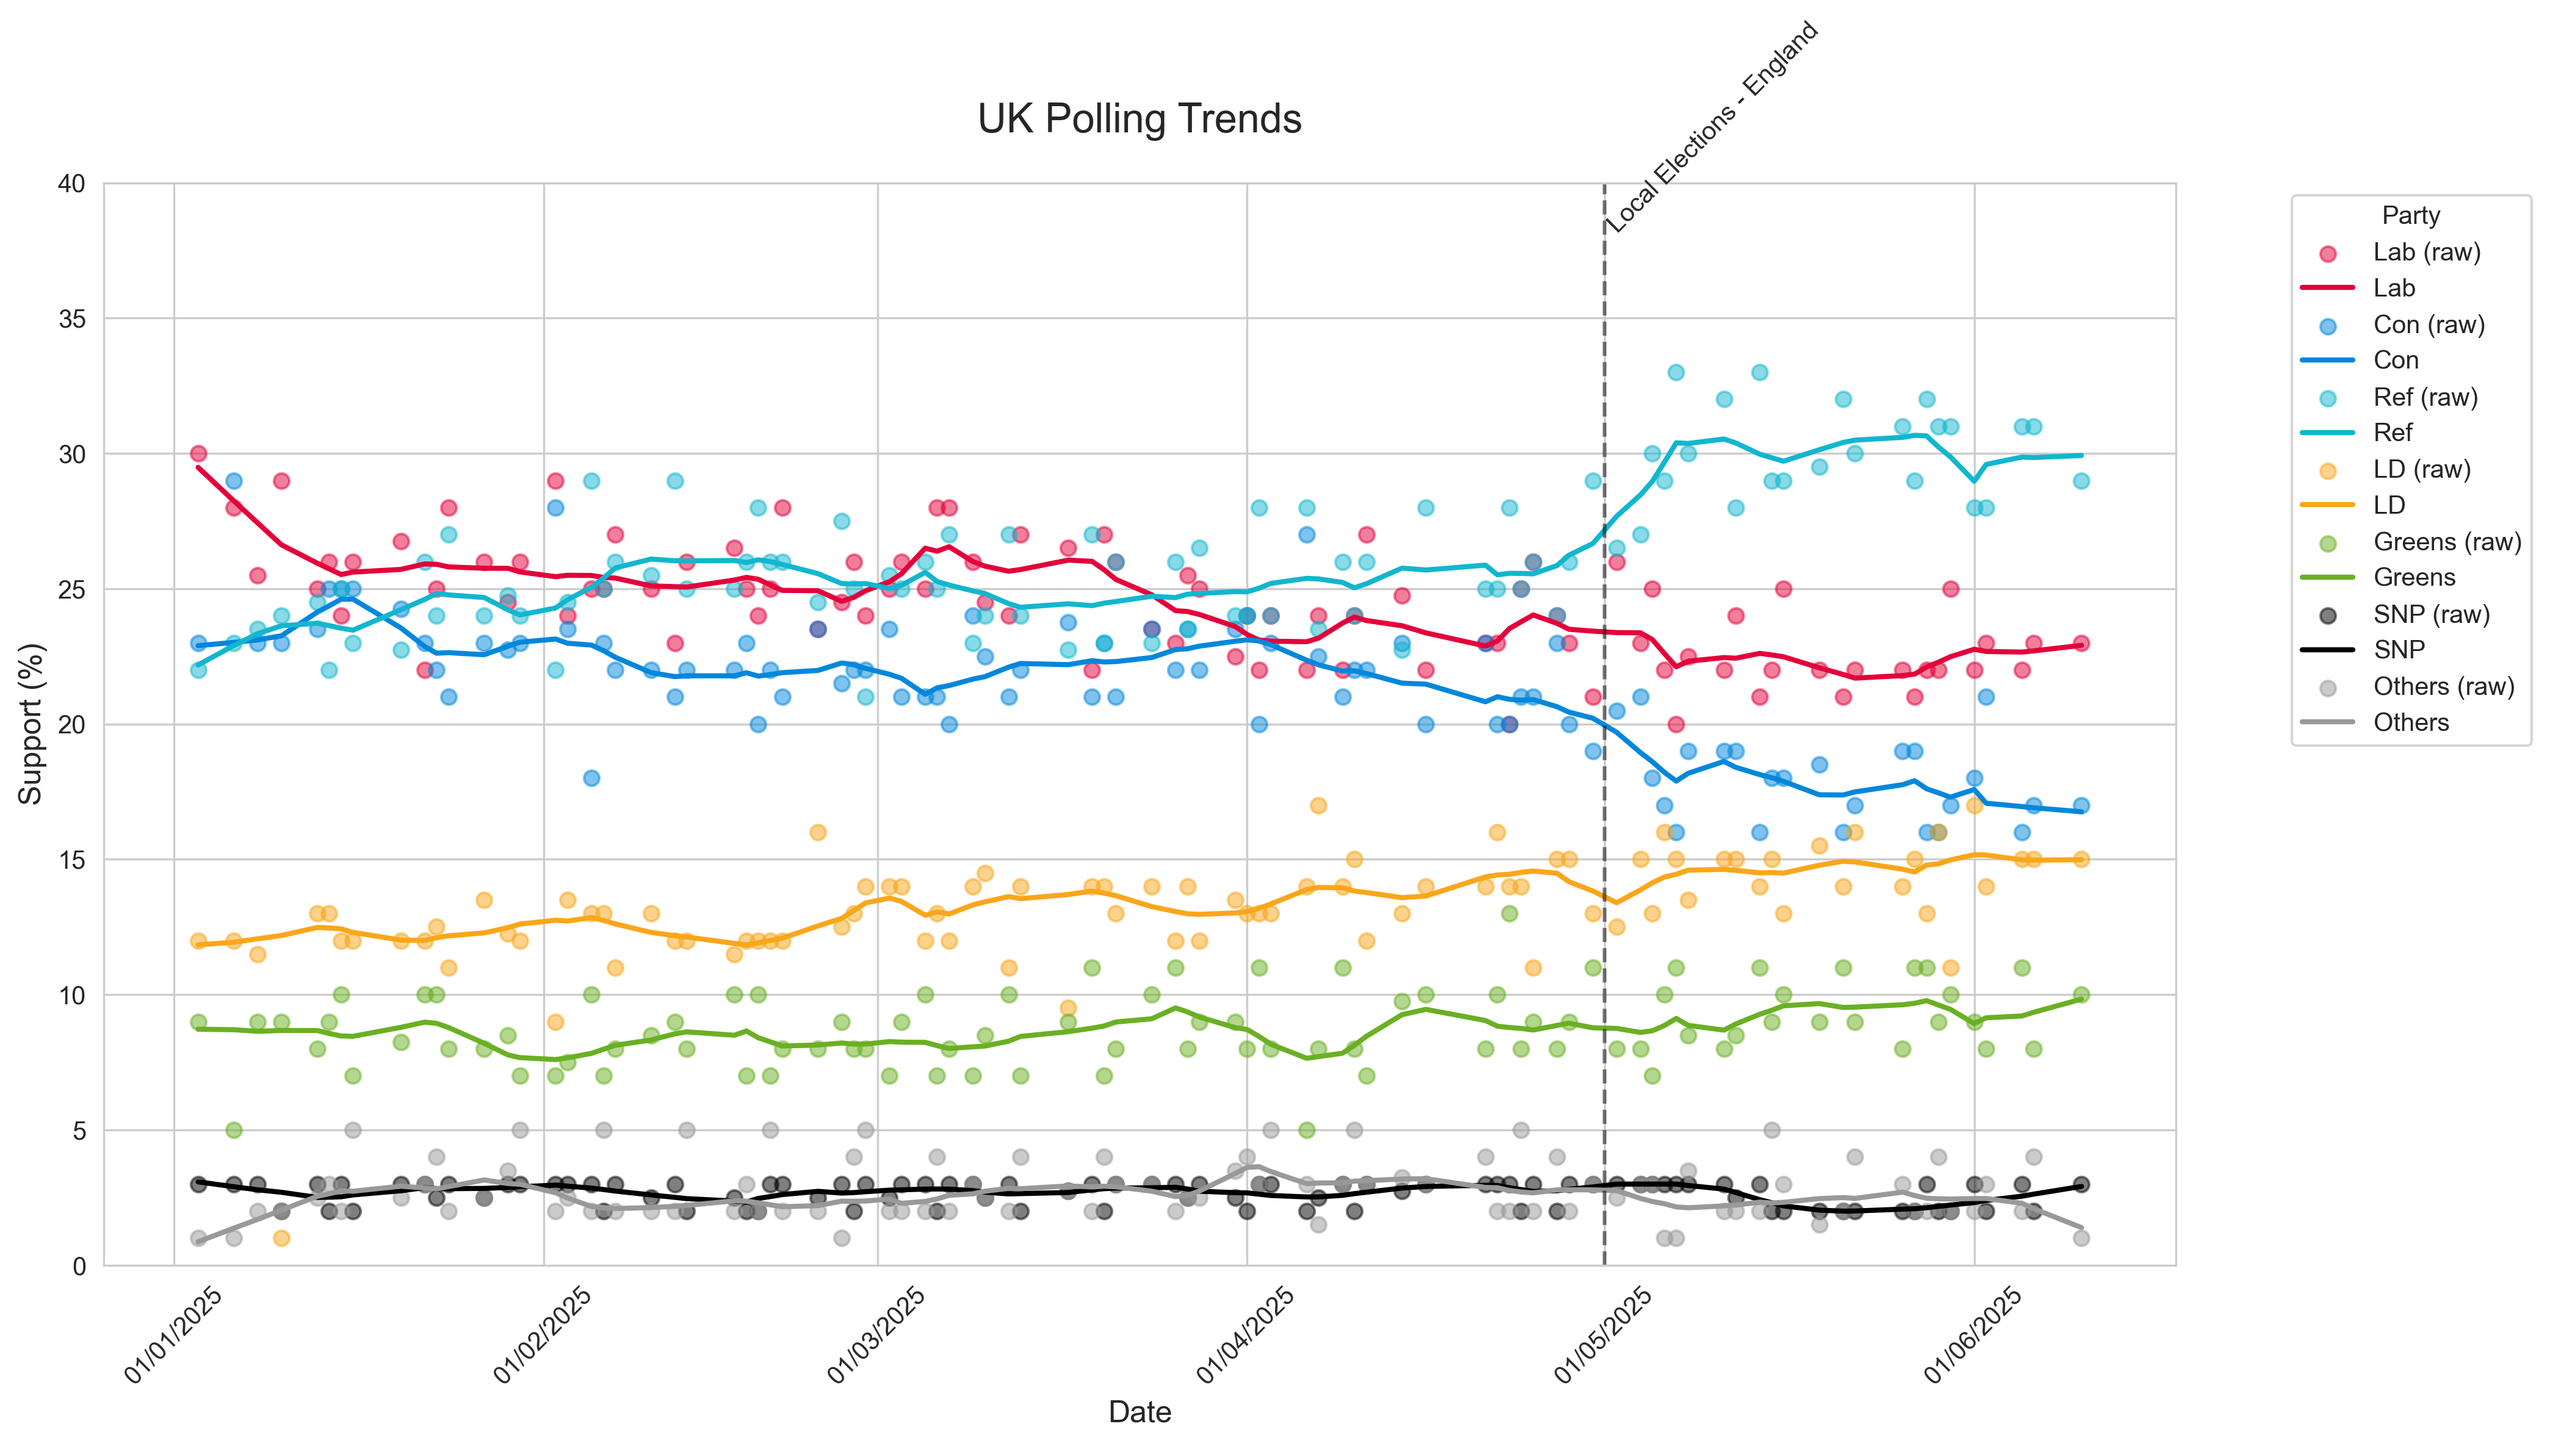
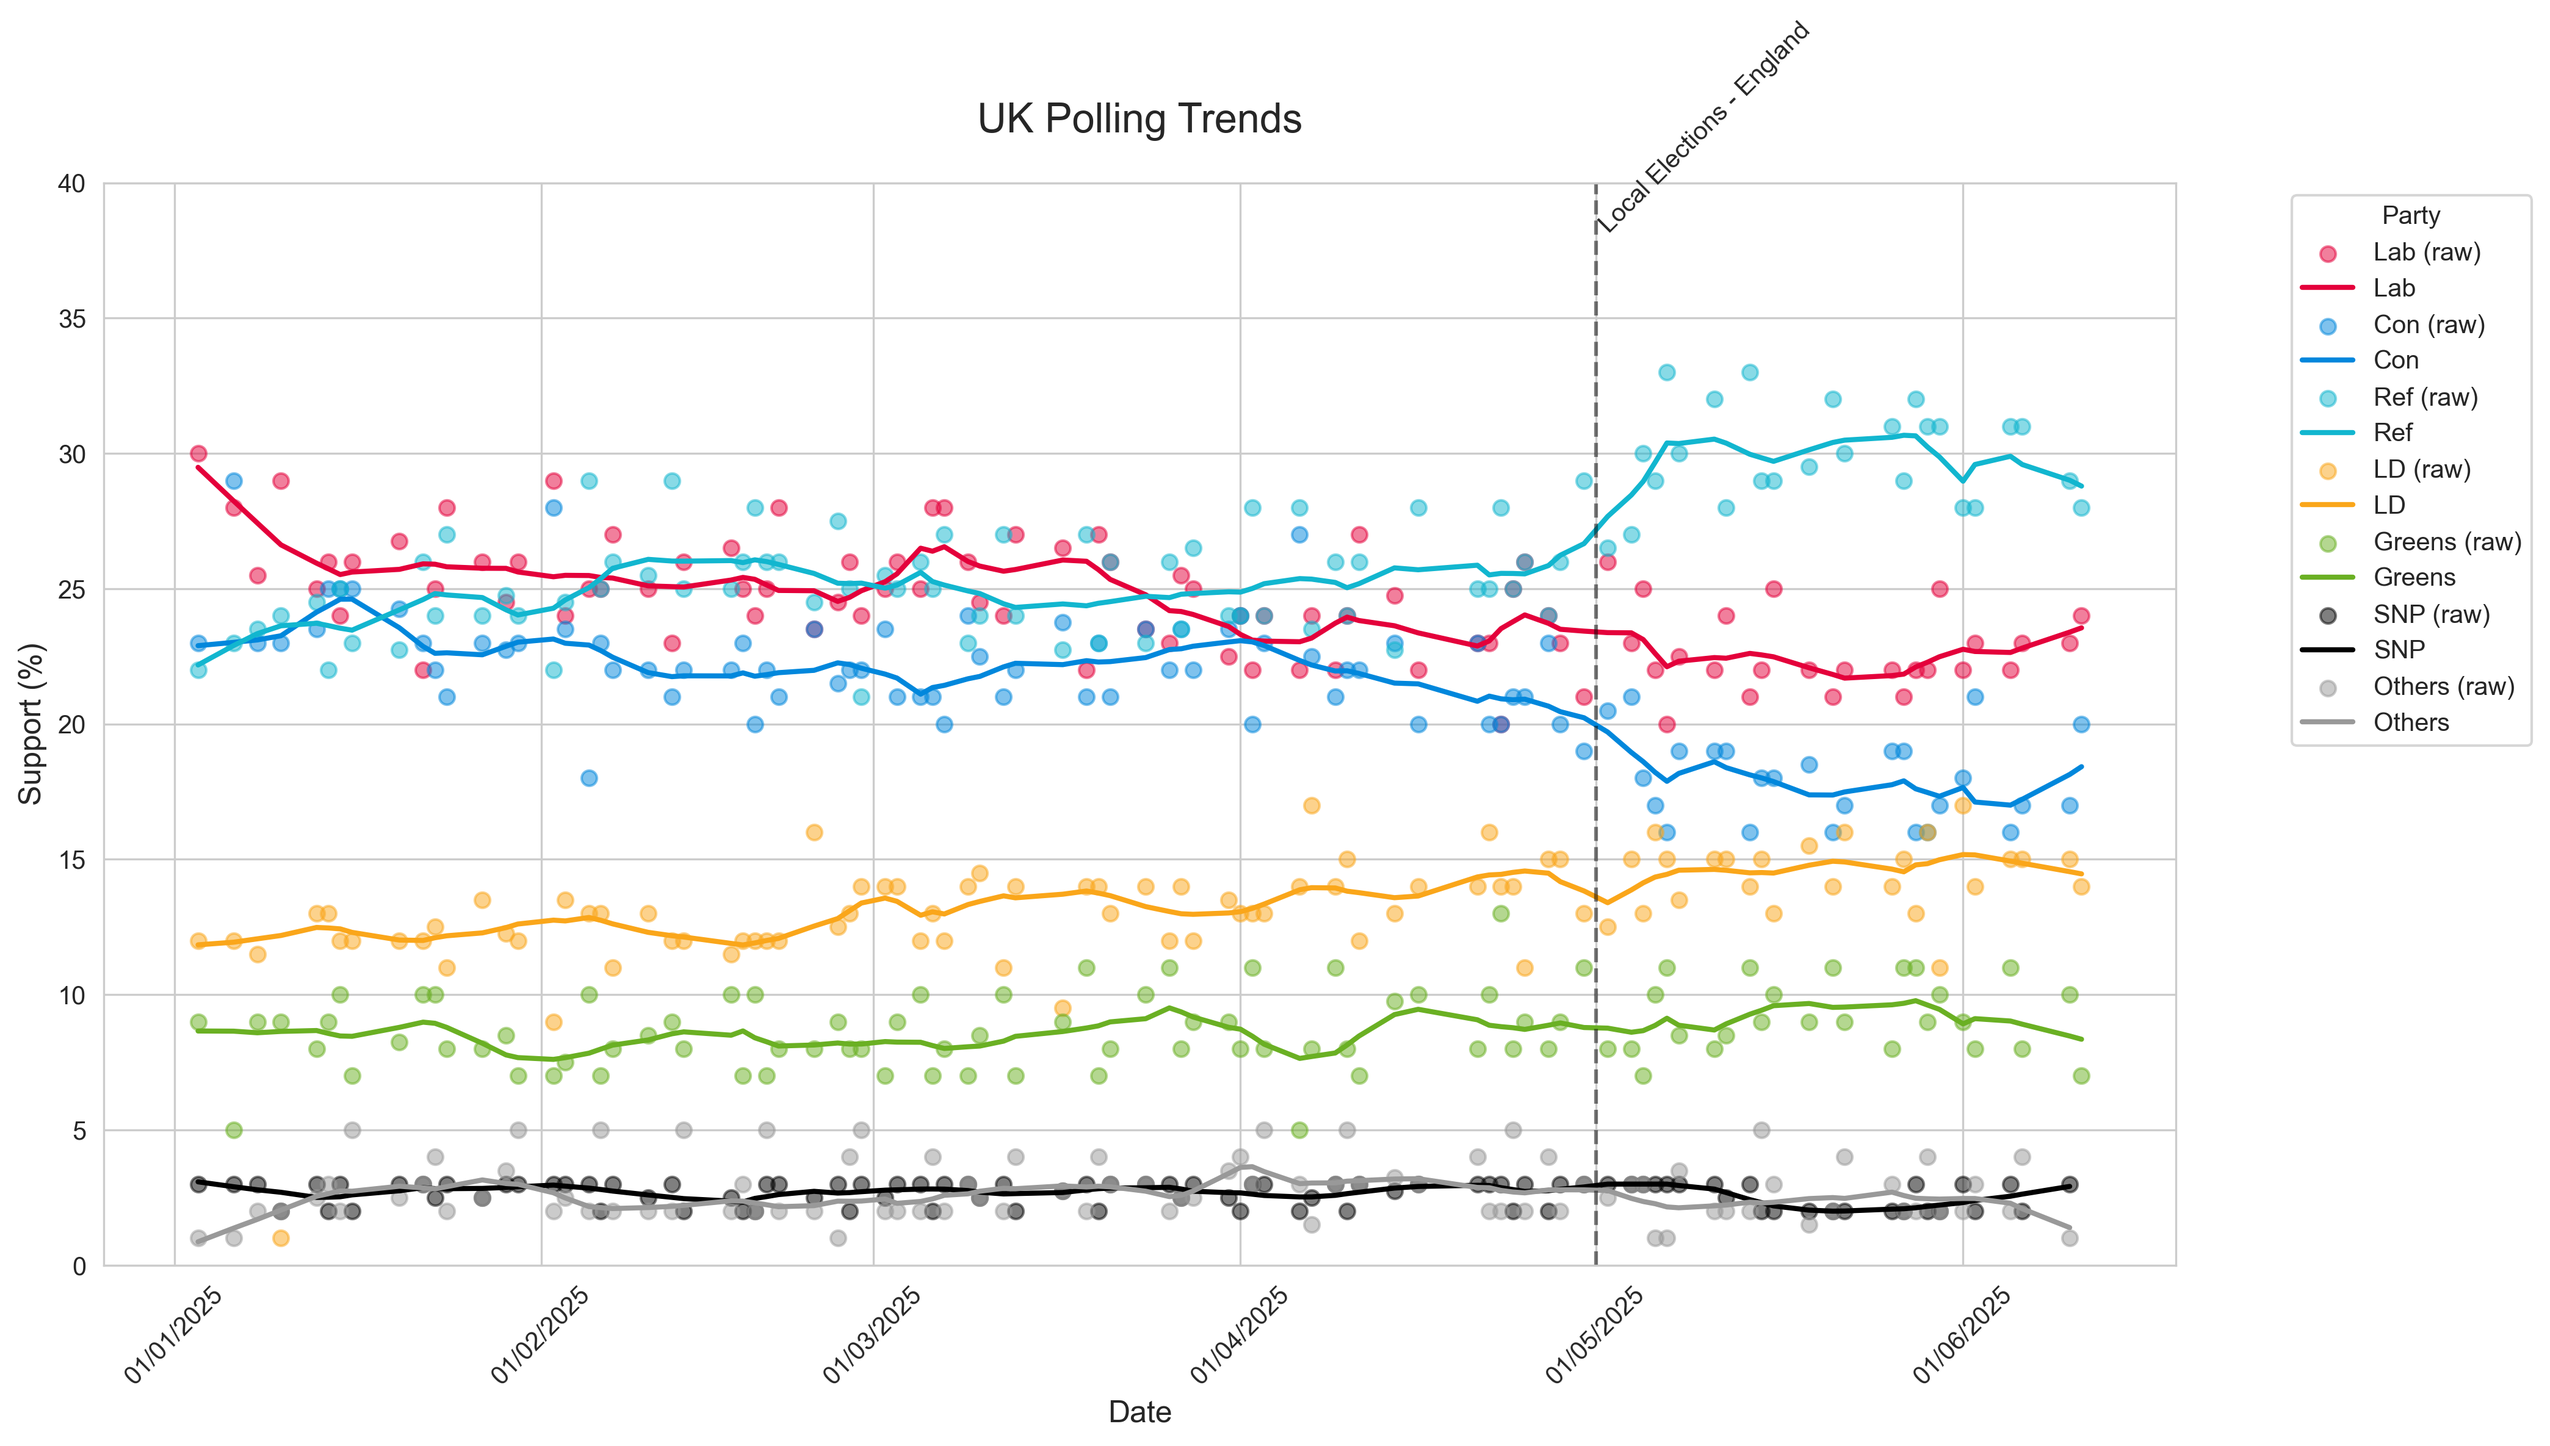
added MIC poll, logic to handle null values in poll

diff --git a/Polling_project/polling_analysis.py b/Polling_project/polling_analysis.py
@@ -20,6 +20,12 @@ df['Date_Numeric'] = (df['Date'] - df['Date'].min()).dt.days
 
 # Group by date and calculate mean for each party
 party_columns = ['Lab', 'Con', 'Ref', 'LD', 'Greens', 'SNP', 'Others']
+
+# Replace empty strings and whitespace with NaN
+for col in party_columns:
+    df[col] = pd.to_numeric(df[col].replace(r'^\s*$', np.nan, regex=True), errors='coerce')
+
+# Calculate daily averages, excluding NaN values
 daily_averages = df.groupby('Date')[party_columns].mean().reset_index()
 
 # Sort by date
@@ -41,22 +47,26 @@ colors = {
 
 # Plot each party with LOESS smoothing
 for party, color in colors.items():
-    # Create scatter plot with higher alpha for individual points
-    plt.scatter(daily_averages['Date'], daily_averages[party], 
-                color=color, alpha=0.5, label=f'{party} (raw)')
+    # Filter out NaN values for this party
+    valid_data = daily_averages.dropna(subset=[party])
     
-    # Calculate LOESS smoothing with 14-day window
-    # Convert 14 days to a fraction of the total date range
-    date_range = (daily_averages['Date'].max() - daily_averages['Date'].min()).days
-    frac = 14 / date_range  # 14 days as a fraction of total days
-    
-    lowess = sm.nonparametric.lowess(daily_averages[party], 
-                                    daily_averages['Date_Numeric'],
-                                    frac=frac, return_sorted=False)  # 14-day window
-    
-    # Plot smoothed line
-    plt.plot(daily_averages['Date'], lowess, 
-         color=color, linewidth=2, label=party)
+    if len(valid_data) > 0:
+        # Create scatter plot with higher alpha for individual points
+        plt.scatter(valid_data['Date'], valid_data[party], 
+                    color=color, alpha=0.5, label=f'{party} (raw)')
+        
+        # Calculate LOESS smoothing with 14-day window
+        # Convert 14 days to a fraction of the total date range
+        date_range = (valid_data['Date'].max() - valid_data['Date'].min()).days
+        frac = 14 / date_range  # 14 days as a fraction of total days
+        
+        lowess = sm.nonparametric.lowess(valid_data[party], 
+                                        valid_data['Date_Numeric'],
+                                        frac=frac, return_sorted=False)  # 14-day window
+        
+        # Plot smoothed line
+        plt.plot(valid_data['Date'], lowess, 
+             color=color, linewidth=2, label=party)
 
 # Add vertical line for Local Elections
 election_date = pd.to_datetime('01/05/2025', format='%d/%m/%Y')
@@ -88,7 +98,7 @@ plt.tight_layout()
 plt.savefig('polling_trends.png', dpi=300, bbox_inches='tight')
 
 # Calculate statistics
-# Calculate averages directly from the raw data, not from daily averages
+# Calculate averages directly from the raw data, excluding NaN values
 averages = df[party_columns].mean().round(1).sort_values(ascending=False)
 latest_date = daily_averages['Date'].max()
 latest_polls = daily_averages[daily_averages['Date'] == latest_date]
@@ -103,16 +113,16 @@ polling_data = {
         'date': most_recent_date.strftime('%d %B %Y'),
         'pollster': most_recent_poll['Pollster'],
         'sample_size': int(most_recent_poll['Sample Size']),
-        'labour': float(most_recent_poll['Lab']),
-        'conservative': float(most_recent_poll['Con']),
-        'reform': float(most_recent_poll['Ref']),
-        'libdem': float(most_recent_poll['LD']),
-        'greens': float(most_recent_poll['Greens']),
-        'snp': float(most_recent_poll['SNP']),
-        'others': float(most_recent_poll['Others'])
+        'labour': float(most_recent_poll['Lab']) if pd.notna(most_recent_poll['Lab']) else 'Not Supplied',
+        'conservative': float(most_recent_poll['Con']) if pd.notna(most_recent_poll['Con']) else 'Not Supplied',
+        'reform': float(most_recent_poll['Ref']) if pd.notna(most_recent_poll['Ref']) else 'Not Supplied',
+        'libdem': float(most_recent_poll['LD']) if pd.notna(most_recent_poll['LD']) else 'Not Supplied',
+        'greens': float(most_recent_poll['Greens']) if pd.notna(most_recent_poll['Greens']) else 'Not Supplied',
+        'snp': float(most_recent_poll['SNP']) if pd.notna(most_recent_poll['SNP']) else 'Not Supplied',
+        'others': float(most_recent_poll['Others']) if pd.notna(most_recent_poll['Others']) else 'Not Supplied'
     },
-    'latest_polls': {party: round(latest_polls[party].values[0], 1) for party in party_columns},
-    'averages': {party: round(averages[party], 1) for party in party_columns},
+    'latest_polls': {party: round(latest_polls[party].values[0], 1) if pd.notna(latest_polls[party].values[0]) else 'Not Supplied' for party in party_columns},
+    'averages': {party: round(averages[party], 1) if pd.notna(averages[party]) else 'Not Supplied' for party in party_columns},
     'recent_polls': []
 }
 
@@ -123,13 +133,13 @@ for _, poll in recent_polls.iterrows():
         'date': poll['Date'].strftime('%d %B %Y'),
         'pollster': poll['Pollster'],
         'sample_size': int(poll['Sample Size']),
-        'labour': float(poll['Lab']),
-        'conservative': float(poll['Con']),
-        'reform': float(poll['Ref']),
-        'libdem': float(poll['LD']),
-        'greens': float(poll['Greens']),
-        'snp': float(poll['SNP']),
-        'others': float(poll['Others'])
+        'labour': float(poll['Lab']) if pd.notna(poll['Lab']) else 'Not Supplied',
+        'conservative': float(poll['Con']) if pd.notna(poll['Con']) else 'Not Supplied',
+        'reform': float(poll['Ref']) if pd.notna(poll['Ref']) else 'Not Supplied',
+        'libdem': float(poll['LD']) if pd.notna(poll['LD']) else 'Not Supplied',
+        'greens': float(poll['Greens']) if pd.notna(poll['Greens']) else 'Not Supplied',
+        'snp': float(poll['SNP']) if pd.notna(poll['SNP']) else 'Not Supplied',
+        'others': float(poll['Others']) if pd.notna(poll['Others']) else 'Not Supplied'
     })
 
 # Save to JSON file
@@ -146,4 +156,5 @@ print(f"\nAs of {latest_date.strftime('%d %B %Y')}:")
 latest_values = latest_polls[party_columns].iloc[0]
 sorted_latest = latest_values.sort_values(ascending=False)
 for party, value in sorted_latest.items():
-    print(f"{party}: {value:.1f}%") 
+    if pd.notna(value):
+        print(f"{party}: {value:.1f}%") 

diff --git a/Seat_Calculator_Project/seat_calc.py b/Seat_Calculator_Project/seat_calc.py
@@ -6,14 +6,6 @@ results = pd.read_csv("GE_results.csv")
 party_columns = ["Con", "Lab", "LD", "RUK", "Green", "SNP", "PC", "All other candidates"]
 polls = pd.read_csv("/Users/pj.stock/data-portfolio/data-portfolio/Polling_project/polls.csv")
 
-
-
-rename_dict = {
-    'Lab': 'Lab', 'Con': 'Con', 'Ref': 'RUK', 'LD': 'LD',
-    'Greens': 'Green', 'SNP': 'SNP', 'PC': 'PC', 'Others': 'All other candidates'
-}
-
-
 # Rename poll columns
 rename_dict = {
     'Lab': 'Lab', 'Con': 'Con', 'Ref': 'RUK', 'LD': 'LD',
@@ -24,18 +16,12 @@ polls = polls.rename(columns=rename_dict)
 # Select the latest poll
 latest_poll = polls.iloc[0]
 
-
-# Map poll to party_columns
-poll_mapped = {
-    "Con": float(latest_poll["Con"]),
-    "Lab": float(latest_poll["Lab"]),
-    "LD": float(latest_poll["LD"]),
-    "RUK": float(latest_poll["RUK"]),
-    "Green": float(latest_poll["Green"]),
-    "SNP": float(latest_poll["SNP"]),
-    "PC": float(latest_poll.get("PC", 0)),
-    "All other candidates": float(latest_poll["All other candidates"])
-}
+# Map poll to party_columns, handling NaN values
+poll_mapped = {}
+for party in party_columns:
+    poll_value = latest_poll.get(party)
+    if pd.notna(poll_value):
+        poll_mapped[party] = float(poll_value)
 
 # 2024 GE national shares
 GE_result = {
@@ -49,23 +35,27 @@ for party in party_columns:
 
 results_pct = results[["Valid votes", "Constituency name", "Country name", "Con", "Lab", "LD", "RUK", "Green", "SNP", "PC", "All other candidates"]]
 
-# Calculate swings
-swings = {party: poll_mapped[party] - GE_result.get(party, 0) for party in party_columns}
+# Calculate swings only for parties with polling data
+swings = {}
+for party in party_columns:
+    if party in poll_mapped:
+        swings[party] = poll_mapped[party] - GE_result.get(party, 0)
 
-# Apply swings
+# Apply swings only to parties with polling data
 results_pct_adjusted = results_pct.copy()
 for party in party_columns:
-    if party not in ["SNP", "PC"]:
+    if party in swings:
         results_pct_adjusted[party] = results_pct_adjusted[party] + swings[party]
         results_pct_adjusted[party] = results_pct_adjusted[party].clip(lower=0)
 
 # Normalize percentages to sum to 100% and round to avoid precision issues
-results_pct_adjusted[party_columns] = (results_pct_adjusted[party_columns]
-                                      .div(results_pct_adjusted[party_columns].sum(axis=1), axis=0) * 100).round(6)
+# Only include parties with polling data in the normalization
+parties_with_data = [party for party in party_columns if party in poll_mapped]
+results_pct_adjusted[parties_with_data] = (results_pct_adjusted[parties_with_data]
+                                      .div(results_pct_adjusted[parties_with_data].sum(axis=1), axis=0) * 100).round(6)
 
-
-# Determine winners
-results_pct_adjusted["Winner"] = results_pct_adjusted[party_columns].idxmax(axis=1)
+# Determine winners only among parties with polling data
+results_pct_adjusted["Winner"] = results_pct_adjusted[parties_with_data].idxmax(axis=1)
 
 # Aggregate seat counts
 seat_counts = results_pct_adjusted["Winner"].value_counts().to_dict()
@@ -88,42 +78,27 @@ output_data = {
         'Green': int(seat_counts.get('Green', 0)),
         'Plaid Cymru': int(seat_counts.get('PC', 0))
     },
-    'swings': {
-        'Labour': {
-            'ge_share': GE_result['Lab'],
-            'latest_share': float(latest_poll['Lab']),
-            'swing': float(swings['Lab'])
-        },
-        'Conservative': {
-            'ge_share': GE_result['Con'],
-            'latest_share': float(latest_poll['Con']),
-            'swing': float(swings['Con'])
-        },
-        'Reform UK': {
-            'ge_share': GE_result['RUK'],
-            'latest_share': float(latest_poll['RUK']),
-            'swing': float(swings['RUK'])
-        },
-        'Liberal Democrats': {
-            'ge_share': GE_result['LD'],
-            'latest_share': float(latest_poll['LD']),
-            'swing': float(swings['LD'])
-        },
-        'Green': {
-            'ge_share': GE_result['Green'],
-            'latest_share': float(latest_poll['Green']),
-            'swing': float(swings['Green'])
-        },
-        'Others': {
-            'ge_share': GE_result['All other candidates'],
-            'latest_share': float(latest_poll['All other candidates']),
-            'swing': float(swings['All other candidates'])
-        }
-    }
+    'swings': {}
 }
 
-# Verify JSON matches printed seat counts
-print("\nJSON Output:", json.dumps(output_data, indent=4))
+# Add swing data only for parties with polling data
+for party, swing in swings.items():
+    party_name = {
+        'Lab': 'Labour',
+        'Con': 'Conservative',
+        'RUK': 'Reform UK',
+        'LD': 'Liberal Democrats',
+        'Green': 'Green',
+        'SNP': 'SNP',
+        'PC': 'Plaid Cymru',
+        'All other candidates': 'Others'
+    }[party]
+    
+    output_data['swings'][party_name] = {
+        'ge_share': GE_result[party],
+        'latest_share': float(poll_mapped[party]),
+        'swing': float(swing)
+    }
 
 # Save to JSON
 with open('seat_results.json', 'w') as f:
